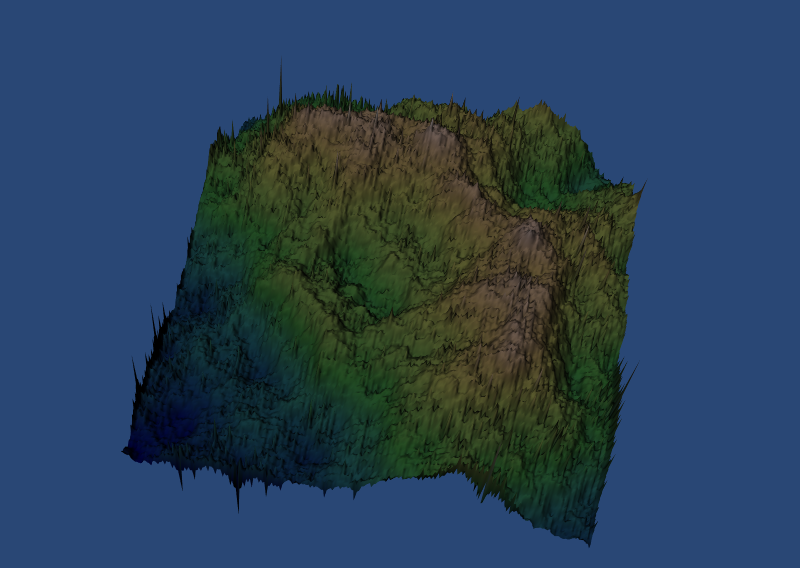
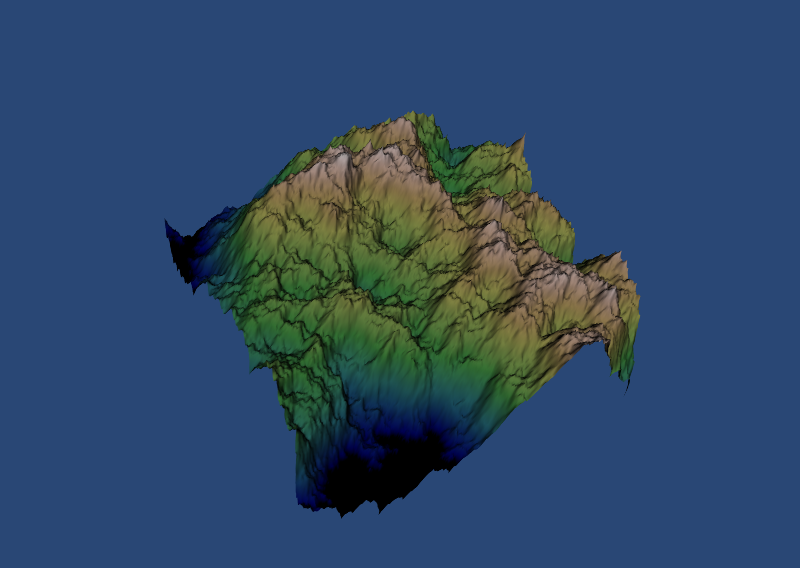
MAIN: Fixed bug in diamond step indexing.

diff --git a/fractal.py b/fractal.py
@@ -21,12 +21,12 @@
 # SOFTWARE.
 import numpy as np
 import numpy.lib.stride_tricks as stride
-import mpl_toolkits.mplot3d
 PLOT_UTIL = None
 try:
     from mayavi import mlab
-    PLOT_UTIL = 'maya'
+    PLOT_UTIL = 'mayavi'
 except ImportError:
+    import mpl_toolkits.mplot3d
     import matplotlib.pyplot as plt
     PLOT_UTIL = 'matplotlib'
 
@@ -177,7 +177,7 @@ def square_det(xstep, ystep, step_x, step_y, size, wrap=True):
     return center_y, center_x
 
 
-def midpoint_sd(size, scale=0.5, random_corner=True):
+def midpoint_sd(size, scale=0.5, roughness=1.0, random_corner=True):
     """
     Midpoint displacement algorithm.
 
@@ -198,6 +198,10 @@ def midpoint_sd(size, scale=0.5, random_corner=True):
     * scale (float):
         Determines the scale of the resulting terrain.  This value has no
         impact on the behaviour of the algorithm.
+    * roughtness (float):
+        Roughness constant which determines the roughness of the resulting
+        heightmap.  With high value (r >> 1), terrain will exhibit 'rough'
+        terrain, while a low value << 1, the terrain will be smooth.
     * random_corder (bool):
         Specifies whether grid corner points are initialised at 0 (False) or
         populated with random values (True).  By default grid corner points are
@@ -239,8 +243,8 @@ def midpoint_sd(size, scale=0.5, random_corner=True):
                                      step_y - ystep,
                                      step_y - ystep])
 
-                grid[step_x, step_y] = (grid[center_y, center_x].mean() +
-                                       perturbation(scale))
+                grid[step_y, step_x] = (grid[center_y, center_x].mean() +
+                                        perturbation(scale))
 
         # Square step.
         for step_x in xrange(xstep, size[0], (xstep) * 2):
@@ -253,7 +257,7 @@ def midpoint_sd(size, scale=0.5, random_corner=True):
                     center_in_y, center_in_x = square_det(
                         xstep, ystep, x, y, size, wrap=False)
                     grid[y, x] = (grid[center_in_y, center_in_x].mean() +
-                                 perturbation(scale))
+                                  perturbation(scale))
 
         # Update perturbation constant.
         scale *= np.power(2, -1.)
@@ -301,7 +305,7 @@ def maya_plot(grid):
     mlab.show()
 
 
-PLOT_FUNCTION = {'maya':  maya_plot,
+PLOT_FUNCTION = {'mayavi':  maya_plot,
                  'matplotlib': plot_grid}
 
 

diff --git a/README.md b/README.md
@@ -7,7 +7,4 @@ Terrain generation algorithm, specifically the diamond-square algorithm.
 ![grid_maya256](https://raw.github.com/cpelley/fractal/master/maya.png)
 
 *Matplotlib screens*
-![grid32](https://raw.github.com/cpelley/fractal/master/32.png)
-![grid64](https://raw.github.com/cpelley/fractal/master/64.png)
-![grid256](https://raw.github.com/cpelley/fractal/master/256.png)
-
+![grid256](https://raw.github.com/cpelley/fractal/master/mpl.png)
